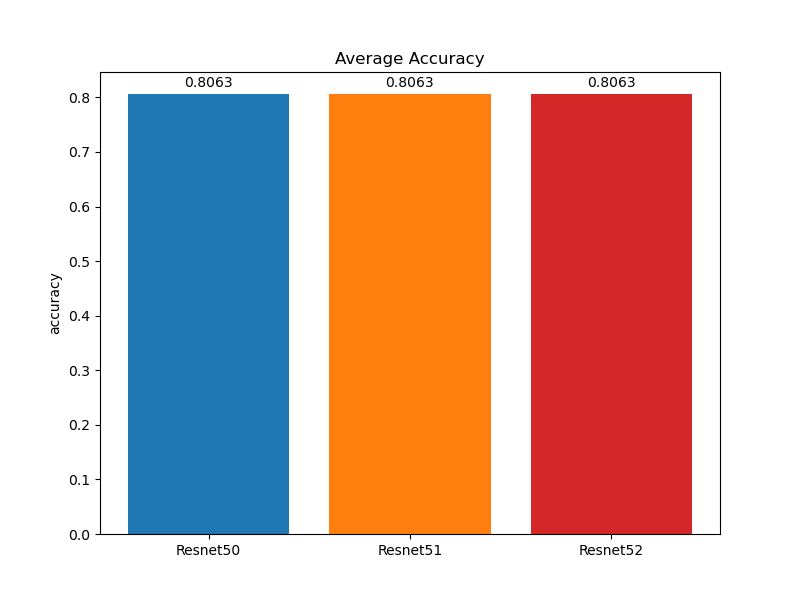
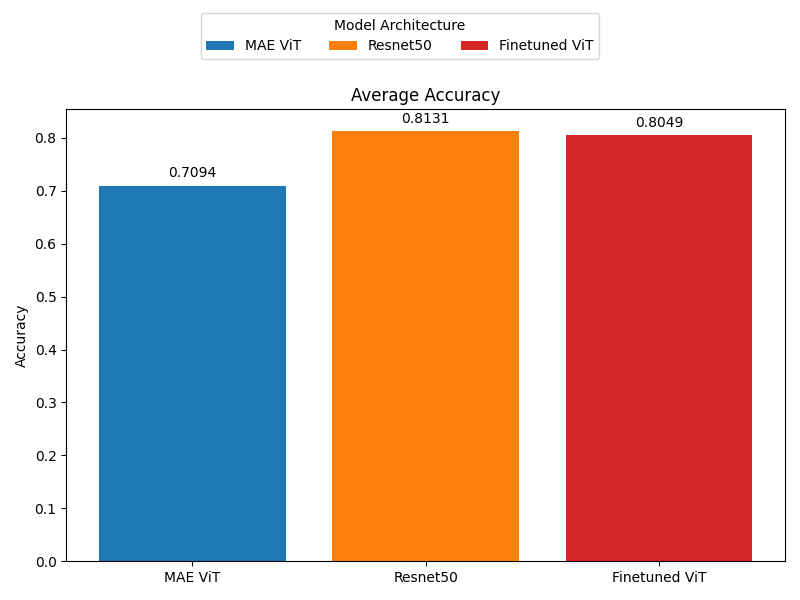
Added evaluation results and scripts

diff --git a/autoencoder/new_pre_train/eval.py b/autoencoder/new_pre_train/eval.py
@@ -1,7 +1,16 @@
+import os
+import json
+import numpy as np
+from tqdm import tqdm
+
 import torch
+import torch.nn as nn
 from torch.utils.data import DataLoader
-from m_autoencoder_vit import CustomImageDataset, train_test_transform  
-from MAEVitModel import MyViTModel
+
+from MAEVitModel import MAEViTModel
+from FineTunedViT import FineTunedViT
+from main import CustomImageDataset, train_test_transform  
+from sklearn.metrics import precision_recall_fscore_support
 
 BATCH_SIZE = 32
 NUM_CLASSES = 5
@@ -11,22 +20,68 @@ IMAGE_SUFFIX    = ".png"
 TRAIN_CSV_PATH = "/home/jobe/ECS271/project/dataset/aptos/train_split.csv" 
 TEST_CSV_PATH  = "/home/jobe/ECS271/project/dataset/aptos/test_split.csv"
 DATA_ROOT      = "/home/jobe/ECS271/project/dataset/aptos/train_images"
-WEIGHTS_PATH   = "/home/jobe/ECS271/project/weights/mae_vit.safetensors" 
+# WEIGHTS_PATH   = "/home/jobe/ECS271/project/weights/mae_vit.safetensors" 
+WEIGHTS_PATH   = "/home/jobe/ECS271/ECS-271-F25-Project/weights/vit_epoch10.pth" 
+JSON_RESULTS = "/home/jobe/ECS271/ECS-271-F25-Project/evaluation_results.json"
 
 DEVICE = torch.device("cuda" if torch.cuda.is_available() else "cpu")
 
-def evaluate(net, testloader, device):
-    net.eval()
-    correct = 0
-    total = 0
+def evaluate_model(model, test_dataset, batch_size, criterion, device, num_classes=NUM_CLASSES):
+    data_loader = DataLoader(test_dataset, batch_size=batch_size, shuffle=False)
+    model.eval()
+
+    running_loss = 0.0
+    total_samples = 0
+    class_stats = torch.zeros(num_classes, 2)  # correct, total
+
+    all_preds = []
+    all_labels = []
+
     with torch.no_grad():
-        for images, labels in testloader:
-            images, labels = images.to(device), labels.to(device)
-            outputs = net(images)
+        for inputs, labels in tqdm(data_loader):
+            inputs, labels = inputs.to(device), labels.to(device)
+            outputs = model(inputs)
+            loss = criterion(outputs, labels.long())
+            running_loss += loss.item() * inputs.size(0)
+
             _, predicted = torch.max(outputs, 1)
-            total += labels.size(0)
-            correct += (predicted == labels).sum().item()
-    print(f"\nTest Accuracy: {100*correct/total:.2f}%")
+            all_preds.append(predicted.cpu())
+            all_labels.append(labels.cpu())
+
+            correct = (predicted == labels)
+            for i in range(labels.size(0)):
+                label = labels[i].item()
+                class_stats[label, 1] += 1
+                if correct[i].item():
+                    class_stats[label, 0] += 1
+            total_samples += labels.size(0)
+
+    final_preds = torch.cat(all_preds).numpy()
+    final_labels = torch.cat(all_labels).numpy()
+
+    avg_loss = running_loss / total_samples
+    overall_correct = torch.sum(class_stats[:,0]).item()
+    overall_accuracy = overall_correct / total_samples
+
+    class_accuracy = {}
+    for i in range(num_classes):
+        total_count = class_stats[i,1].item()
+        class_accuracy[i] = class_stats[i,0].item() / total_count if total_count > 0 else 0.0
+
+    precision_arr, recall_arr, f1_arr, _ = precision_recall_fscore_support(
+        final_labels, final_preds,
+        labels=np.arange(num_classes),
+        average=None,
+        zero_division=0
+    )
+
+    per_class_metrics = {
+        'precision': {i: precision_arr[i] for i in range(num_classes)},
+        'recall': {i: recall_arr[i] for i in range(num_classes)},
+        'f1': {i: f1_arr[i] for i in range(num_classes)},
+    }
+
+    return avg_loss, overall_accuracy, class_accuracy, per_class_metrics
 
 def main():
     test_dataset = CustomImageDataset(
@@ -38,11 +93,44 @@ def main():
         suffix=IMAGE_SUFFIX,
     )
 
-    testloader = DataLoader(test_dataset, batch_size=BATCH_SIZE, shuffle=False)
-    net = MyViTModel(num_classes=5).to(DEVICE)
-    net.load_trained_weights(WEIGHTS_PATH, device=DEVICE)
+    # model = MAEViTModel(num_classes=NUM_CLASSES)
+    model = FineTunedViT(num_classes=NUM_CLASSES)
+    model = model.load_trained_weights(WEIGHTS_PATH, device=DEVICE)
+    model.to(DEVICE)
+    # model_name = "MAE ViT"
+    model_name = "Finetuned ViT"
 
-    evaluate(net, testloader, DEVICE)
+    criterion = nn.CrossEntropyLoss()
+
+    avg_loss, overall_accuracy, class_accuracy, per_class_metrics = evaluate_model(
+        model, test_dataset, BATCH_SIZE, criterion, DEVICE
+    )
+
+    print(f"\nAverage Loss: {avg_loss:.4f}")
+    print(f"Overall Accuracy: {overall_accuracy*100:.2f}%")
+    print(f"Per-Class Accuracy: {class_accuracy}")
+    print(f"Per-Class Metrics (Precision / Recall / F1): {per_class_metrics}")
+
+    # Load existing results or start new
+    if os.path.exists(JSON_RESULTS):
+        try:
+            with open(JSON_RESULTS, "r") as f:
+                results = json.load(f)
+        except (json.JSONDecodeError, FileNotFoundError):
+            # File exists but is empty or corrupted, start fresh
+            results = {}
+
+    # Update or add entry for this model
+    results[model_name] = {
+        "avg_loss": avg_loss,
+        "overall_accuracy": overall_accuracy,
+        "class_accuracy": class_accuracy,
+        "per_class_metrics": per_class_metrics
+    }
+
+    # Save back to JSON
+    with open(JSON_RESULTS, "w") as f:
+        json.dump(results, f, indent=4)
 
 if __name__ == "__main__":
     main()

diff --git a/plot.py b/plot.py
@@ -1,0 +1,123 @@
+import os
+import json
+import numpy as np
+import matplotlib.pyplot as plt
+
+JSON_PATH = "/home/jobe/ECS271/ECS-271-F25-Project/evaluation_results.json"  # path to your saved results
+OUTPUT_DIR = "figures"
+COLORS = ['tab:blue', 'tab:orange', 'tab:red', 'tab:green']
+
+def load_results(json_path):
+    with open(json_path, "r") as f:
+        results = json.load(f)
+    return results
+
+def add_legend(fig, model_names):
+    fig.legend(
+        [plt.Rectangle((0, 0), 1, 1, fc=COLORS[i]) for i in range(len(model_names))],
+        model_names,
+        loc="upper center",
+        bbox_to_anchor=(0.5, 0.99),
+        ncol=len(model_names),
+        title="Model Architecture"
+    )
+
+def generate_plots_from_json(results):
+    os.makedirs(OUTPUT_DIR, exist_ok=True)
+    model_names = list(results.keys())
+    num_models = len(model_names)
+    num_classes = 5
+
+    # Average Accuracy
+    overall_accuracies = [results[m]["overall_accuracy"] for m in model_names]
+    plt.clf()
+    fig = plt.figure(figsize=(8, 6))
+    bars = plt.bar(model_names, overall_accuracies, color=COLORS[:num_models])
+    for bar in bars:
+        yval = bar.get_height()
+        plt.text(bar.get_x() + bar.get_width()/2, yval + 0.01, f'{yval:.4f}', ha='center', va='bottom')
+
+    plt.ylabel("Accuracy")
+    plt.title("Average Accuracy")
+    add_legend(fig, model_names)
+
+    # Manually adjust layout to leave space for legend
+    plt.tight_layout(rect=[0, 0, 1, 0.88])
+    plt.savefig(os.path.join(OUTPUT_DIR, "avg_accuracy.png"))
+
+    # ------------------- Average Loss -------------------
+    average_losses = [results[m]["avg_loss"] for m in model_names]
+    plt.clf()
+    fig = plt.figure(figsize=(8, 6))
+    bars = plt.bar(model_names, average_losses, color=COLORS[:num_models])
+    for bar in bars:
+        yval = bar.get_height()
+        plt.text(bar.get_x() + bar.get_width()/2, yval + 0.01, f'{yval:.4f}', ha='center', va='bottom')
+
+    plt.ylabel("Loss")
+    plt.title("Average Loss")
+    add_legend(fig, model_names)
+
+    # Manually adjust layout to leave space for legend
+    plt.tight_layout(rect=[0, 0, 1, 0.88])
+    plt.savefig(os.path.join(OUTPUT_DIR, "avg_loss.png"))
+
+
+    # Per-Class Accuracy
+    class_data = {i: [results[m]["class_accuracy"][str(i)] for m in model_names] for i in range(num_classes)}
+    fig, axes = plt.subplots(2, 3, figsize=(15, 10))
+    axes = axes.flatten()
+    bar_width = 0.25
+    index = np.arange(1)
+
+    for i in range(num_classes):
+        ax = axes[i]
+        accuracies = class_data[i]
+        for j in range(num_models):
+            ax.bar(index + j * bar_width, accuracies[j], bar_width, color=COLORS[j], label=model_names[j])
+            yval = accuracies[j]
+            ax.text(index[0] + j * bar_width, yval + 0.01, f'{yval:.3f}', ha='center', va='bottom', fontsize=9)
+        ax.set_title(f"Class {i} Accuracy", fontsize=14)
+        ax.set_ylim(0, 1.0)
+        ax.set_ylabel("Accuracy", fontsize=12)
+        ax.set_xticks(index + bar_width * (num_models - 1) / 2)
+        ax.set_xticklabels([""])
+
+    if num_classes < len(axes):
+        fig.delaxes(axes[num_classes])
+
+    fig.suptitle("Per-Class Accuracy For Each Model (Grades 0 to 4)", fontsize=16, y=1.02)
+    add_legend(fig, model_names)
+    plt.tight_layout(rect=[0, 0, 1, 0.98])
+    plt.savefig(os.path.join(OUTPUT_DIR, "class_accuracy_grid.png"))
+
+    # Precision, Recall, F1 per class
+    metrics = ["precision", "recall", "f1"]
+    metric_data = {metric: {i: [results[m]["per_class_metrics"][metric][str(i)] for m in model_names] for i in range(num_classes)} for metric in metrics}
+    fig, axes = plt.subplots(len(metrics), num_classes, figsize=(20, 12), sharey=True)
+    index = np.arange(1)
+
+    for row_idx, metric_name in enumerate(metrics):
+        for col_idx in range(num_classes):
+            ax = axes[row_idx, col_idx]
+            scores = metric_data[metric_name][col_idx]
+            for j in range(num_models):
+                ax.bar(index + j * bar_width, scores[j], bar_width, color=COLORS[j])
+                yval = scores[j]
+                ax.text(index[0] + j * bar_width, yval + 0.02, f'{yval:.2f}', ha='center', va='bottom', fontsize=8)
+            ax.set_ylim(0, 1.05)
+            ax.set_xticks(index + bar_width * (num_models - 1) / 2)
+            ax.set_xticklabels([""])
+            if col_idx == 0:
+                ax.set_ylabel(metric_name.capitalize(), fontsize=14, weight="bold")
+            if row_idx == 0:
+                ax.set_title(f"Class {col_idx}", fontsize=14)
+
+    add_legend(fig, model_names)
+    fig.suptitle("Per-Class Performance Comparison (Precision, Recall, F1)", fontsize=16, y=1.05)
+    plt.tight_layout(rect=[0, 0, 1, 0.98])
+    plt.savefig(os.path.join(OUTPUT_DIR, "class_metrics_grid.png"))
+
+if __name__ == "__main__":
+    results = load_results(JSON_PATH)
+    generate_plots_from_json(results)

diff --git a/autoencoder/new_pre_train/FineTunedViT.py b/autoencoder/new_pre_train/FineTunedViT.py
@@ -1,12 +1,14 @@
 import torch
 import torch.nn as nn
-from torchvision.models import vit_b_16
+from torchvision.models import vit_b_16, ViT_B_16_Weights
 
-class MAEViTModel(nn.Module):
-    def __init__(self, num_classes=5):
+class FineTunedViT(nn.Module):
+    def __init__(self, num_classes=5, pretrained=True):
         super().__init__()
 
-        self.model = vit_b_16(weights=None)
+        weights = ViT_B_16_Weights.IMAGENET1K_V1 if pretrained else None
+        self.model = vit_b_16(weights=weights)
+
         in_features = self.model.heads.head.in_features
         self.model.heads.head = nn.Linear(in_features, num_classes)
 
@@ -14,13 +16,15 @@ class MAEViTModel(nn.Module):
         return self.model(x)
 
     def load_trained_weights(self, path, device="cpu"):
+        """
+        Load pretrained weights from file.
+        """
         state_dict = torch.load(path, map_location=device)
         missing, unexpected = self.model.load_state_dict(state_dict, strict=False)
 
-        print("\nLoaded with:")
+        print("\nLoaded weights with:")
         print("Missing keys:", missing)
         print("Unexpected keys:", unexpected)
 
-        self.to(device)       
-        return self  
-
+        self.to(device)
+        return self
